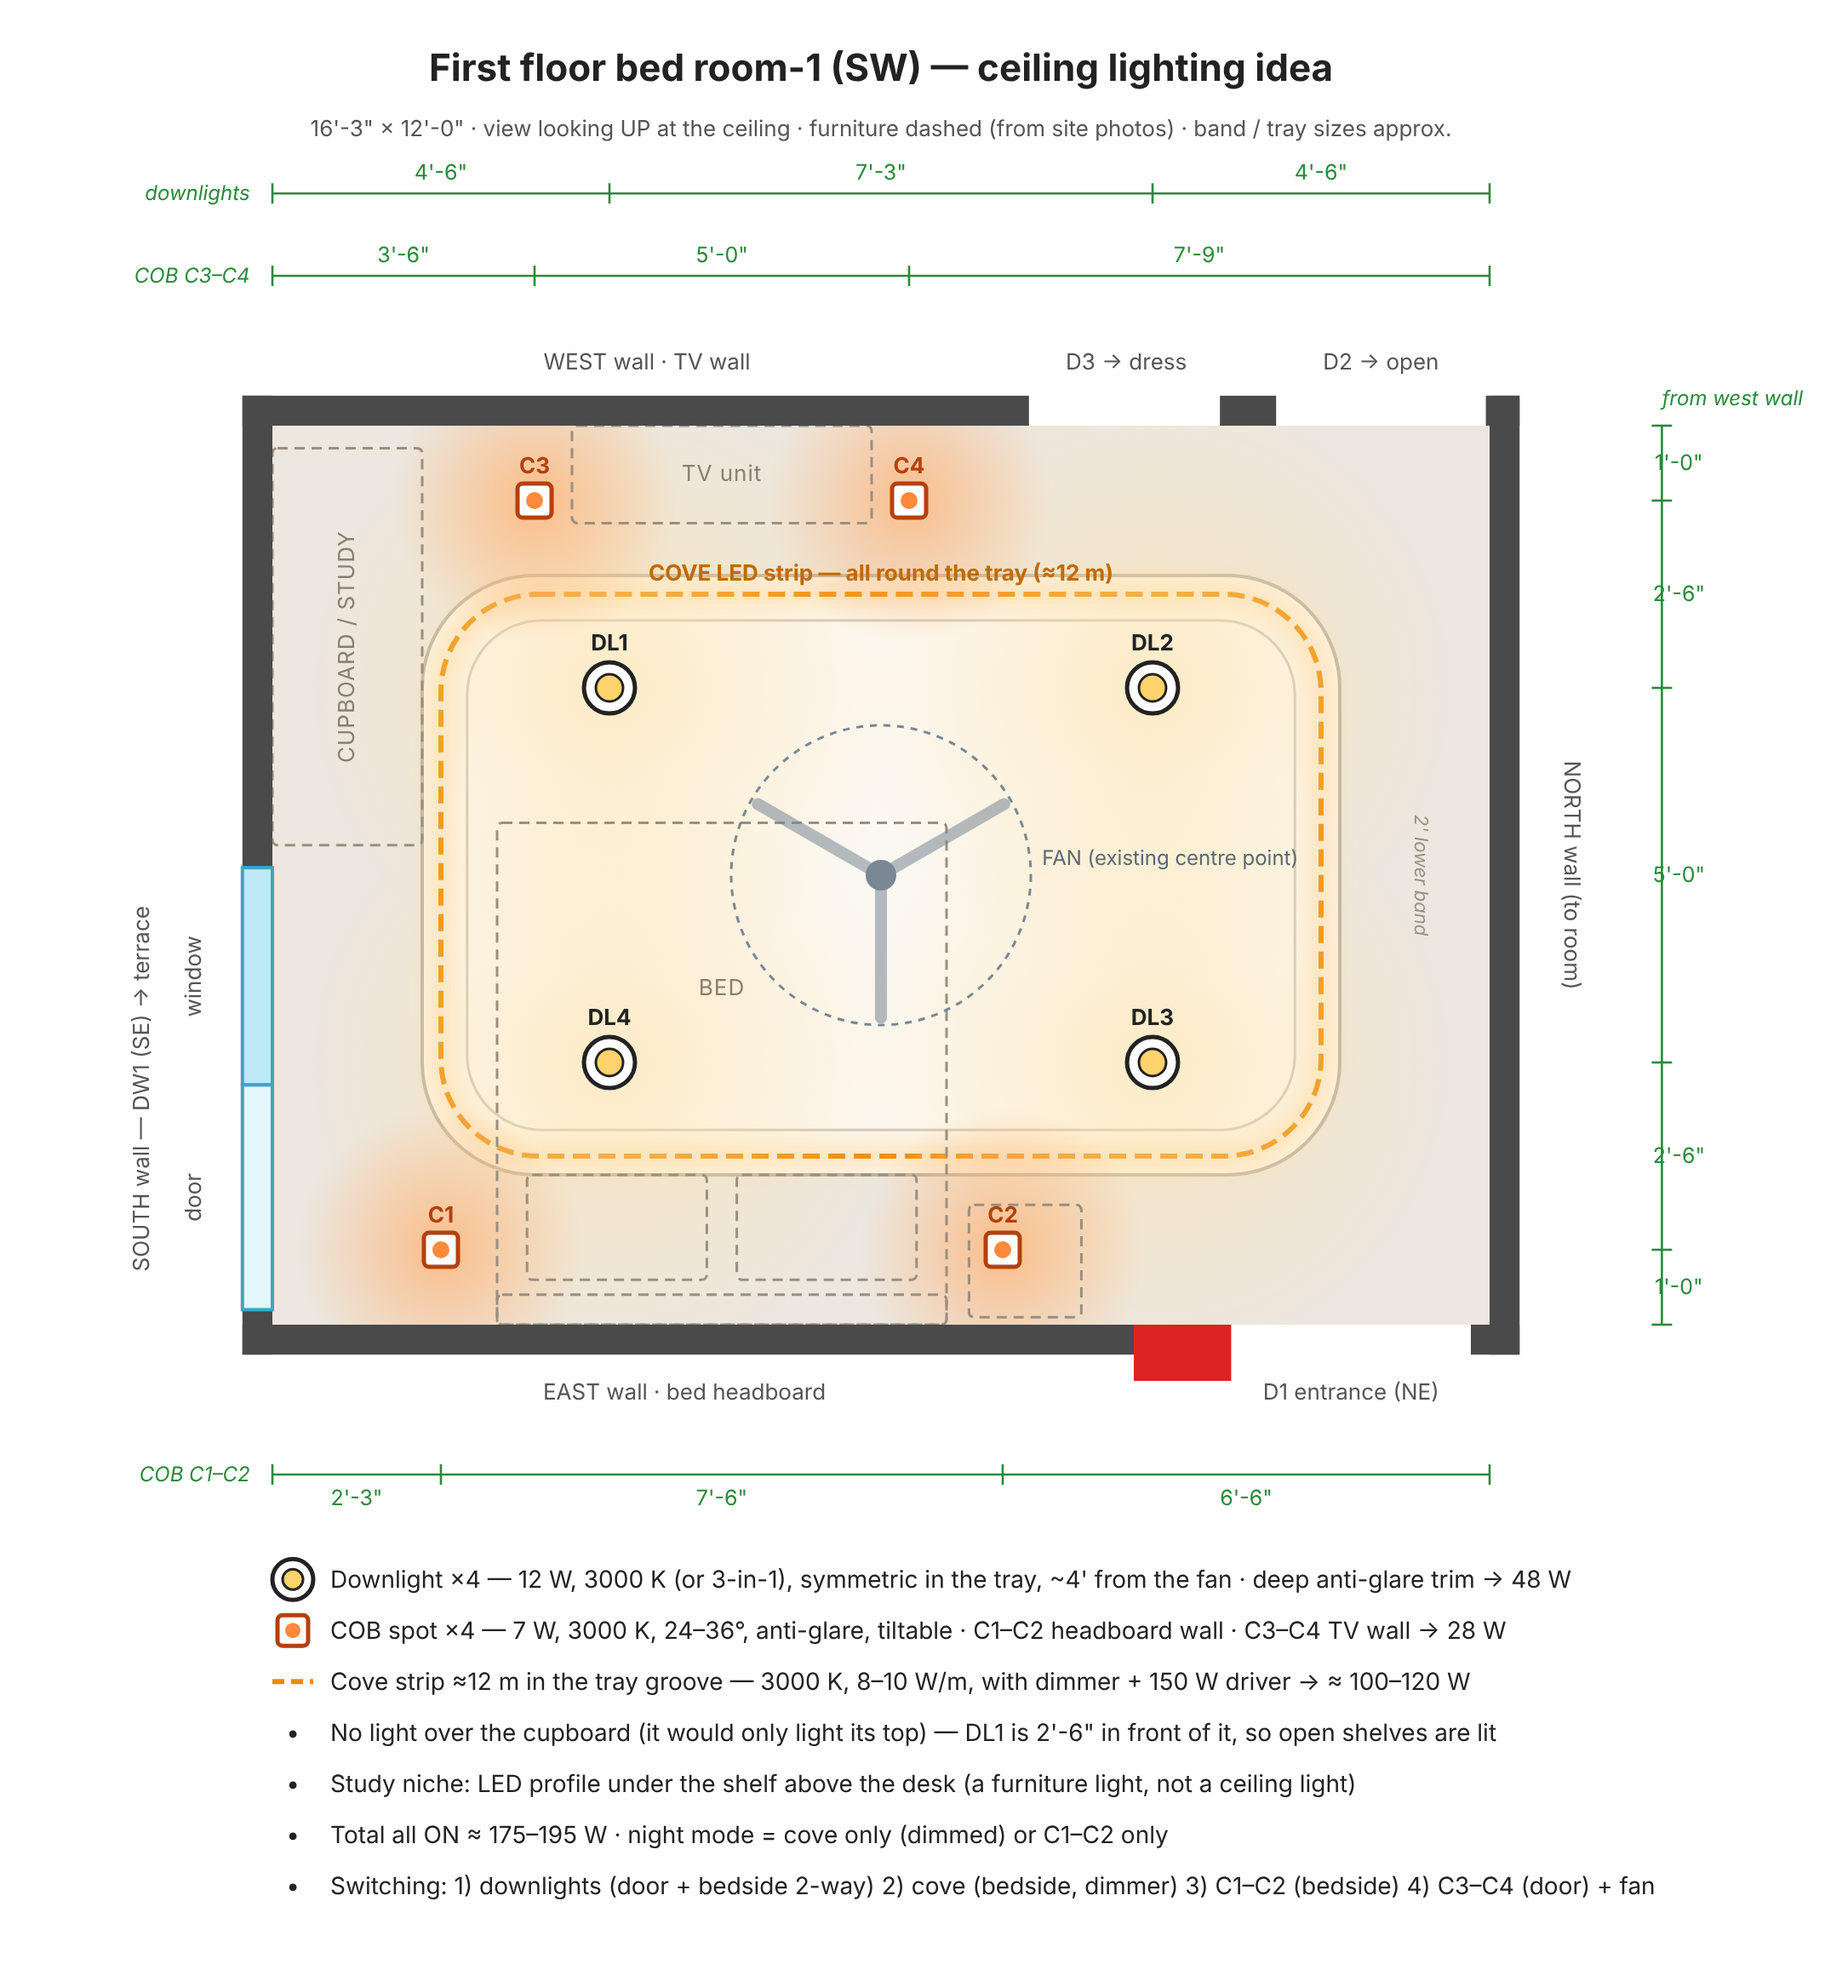
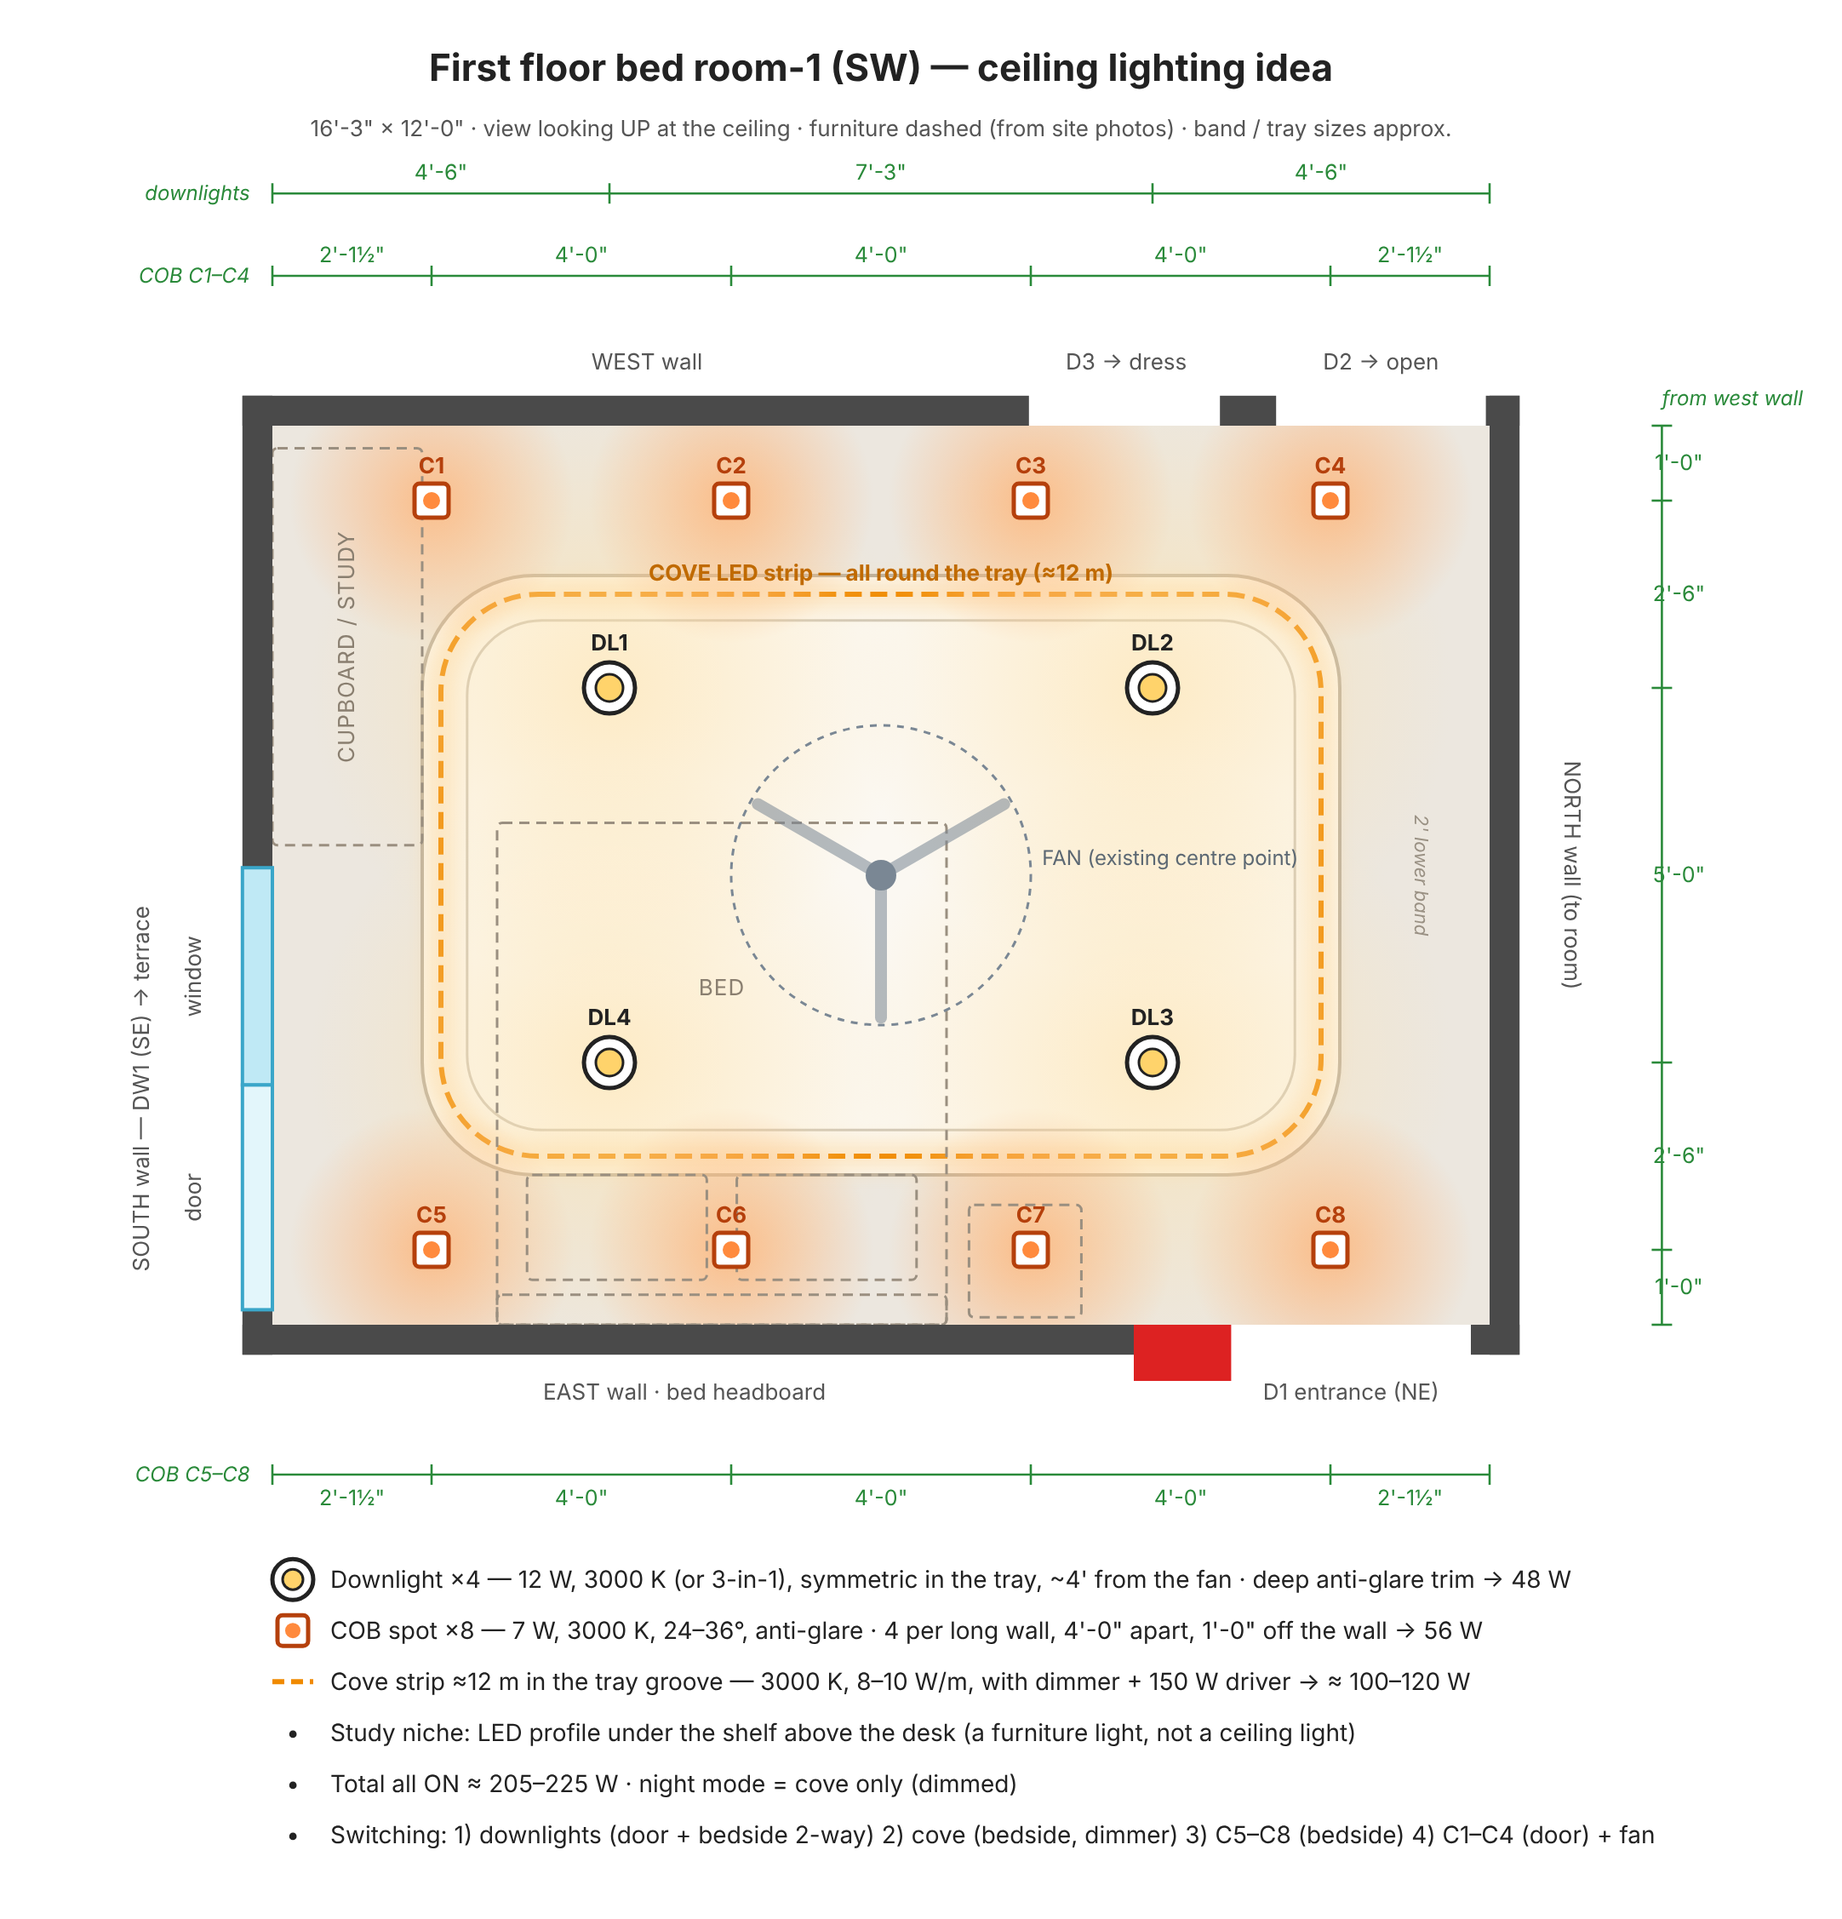
feat(ideas): even, symmetric COB band for first-floor bed room-1
8 COB spots, 4 per long wall at 4'-0" c/c; drop the assumed TV unit.

Claude-Session: https://claude.ai/code/session_01NB31rmuUVJUG6RumaKdizv

diff --git a/ideas/first_bedroom1_ceiling_lights.py b/ideas/first_bedroom1_ceiling_lights.py
@@ -30,9 +30,9 @@ add = parts.append
 
 # 4 downlights, symmetric about the tray/fan centre (8'-1½", 6'-0")
 DL = [("DL1", 4.5, 3.5), ("DL2", 11.75, 3.5), ("DL3", 11.75, 8.5), ("DL4", 4.5, 8.5)]
-COB = [("C1", 2.25, 11.0), ("C2", 9.75, 11.0),      # headboard wall, beside the bed
-       ("C3", 3.5, 1.0), ("C4", 8.5, 1.0)]          # TV wall, either side of the TV
-# Nothing over the cupboard: a spot above a 2'-deep unit only lights its top. DL1 sits 1'-9" in front of it.
+# COB: 4 per long wall, 4'-0" c/c, 1'-0" off the wall, symmetric about the room centre -> even band all round
+COB_X = [L / 2 - 6, L / 2 - 2, L / 2 + 2, L / 2 + 6]
+COB = [(f"C{i+1}", x, 1.0) for i, x in enumerate(COB_X)] + [(f"C{i+5}", x, W - 1.0) for i, x in enumerate(COB_X)]
 
 def rrect(x0, y0, x1, y1, r, **kw):
     a = " ".join(f'{k.replace("_", "-")}="{v}"' for k, v in kw.items())
@@ -72,7 +72,6 @@ furn(3.4, 10.0, 5.8, 11.4); furn(6.2, 10.0, 8.6, 11.4)   # pillows
 add(f'<text x="{X(6.0)}" y="{Y(7.6)}" class="furn">BED</text>')
 furn(9.3, 10.4, 10.8, 11.9)
 furn(0.0, 0.3, 2.0, 5.6, "CUPBOARD / STUDY", 12, rot=True)
-furn(4.0, 0.0, 8.0, 1.3, "TV unit", 12)
 
 # fan
 fx, fy = FAN
@@ -104,7 +103,7 @@ vwall(-T, W + T, L, 1)                                                          
 def lab(x, y, txt, rot=0, cls="door"):
     tr = f' transform="rotate({rot} {X(x)} {Y(y)})"' if rot else ""
     add(f'<text x="{X(x)}" y="{Y(y)}" class="{cls}"{tr}>{txt}</text>')
-lab(5.0, -0.75, "WEST wall · TV wall")
+lab(5.0, -0.75, "WEST wall")
 lab(11.4, -0.75, "D3 → dress")
 lab(14.8, -0.75, "D2 → open")
 lab(5.5, W + 1.0, "EAST wall · bed headboard")
@@ -129,8 +128,10 @@ add(f'<text x="{X(L-1.0)}" y="{Y(6.0)}" class="band" transform="rotate(90 {X(L-1
 
 # ---- dimension chains ----
 def ftin(v):
-    f, i = divmod(round(v * 12), 12)
-    return f"{f}'-{i}\""
+    h = round(v * 24)                      # half inches
+    f, r = divmod(h, 24)
+    i, half = divmod(r, 2)
+    return f"{f}'-{i}{'½' if half else ''}\""
 def dim_h(xs, y, lbl, off=-8):
     yy = Y(y)
     add(f'<line x1="{X(xs[0])}" y1="{yy}" x2="{X(xs[-1])}" y2="{yy}" class="dim"/>')
@@ -148,9 +149,9 @@ def dim_v(ys, x, lbl):
         add(f'<text x="{xx+10}" y="{(Y(a)+Y(b))/2+4}" class="dimt" text-anchor="start">{ftin(b-a)}</text>')
     add(f'<text x="{xx}" y="{Y(ys[0])-12}" class="dimlab">{lbl}</text>')
 
-dim_h([0, 3.5, 8.5, L], -2.0, "COB C3–C4")
+dim_h([0] + COB_X + [L], -2.0, "COB C1–C4")
 dim_h([0, 4.5, 11.75, L], -3.1, "downlights")
-dim_h([0, 2.25, 9.75, L], W + 2.0, "COB C1–C2", 18)
+dim_h([0] + COB_X + [L], W + 2.0, "COB C5–C8", 18)
 dim_v([0, 1.0, 3.5, 8.5, 11.0, W], L + 2.3, "from west wall")
 
 add(f'<text x="{X(L/2)}" y="{Y(-4.6)}" class="title">First floor bed room-1 (SW) — ceiling lighting idea</text>')
@@ -160,12 +161,11 @@ add(f'<text x="{X(L/2)}" y="{Y(-4.0)+6}" class="sub">16\'-3" × 12\'-0" · view 
 lx, ly = X(0), Y(W + 3.4)
 leg = [
     ("dl", "Downlight ×4 — 12 W, 3000 K (or 3-in-1), symmetric in the tray, ~4' from the fan · deep anti-glare trim  →  48 W"),
-    ("cob", "COB spot ×4 — 7 W, 3000 K, 24–36°, anti-glare, tiltable · C1–C2 headboard wall · C3–C4 TV wall  →  28 W"),
+    ("cob", "COB spot ×8 — 7 W, 3000 K, 24–36°, anti-glare · 4 per long wall, 4'-0\" apart, 1'-0\" off the wall  →  56 W"),
     ("cove", "Cove strip ≈12 m in the tray groove — 3000 K, 8–10 W/m, with dimmer + 150 W driver  →  ≈ 100–120 W"),
-    ("txt", "No light over the cupboard (it would only light its top) — DL1 is 2'-6\" in front of it, so open shelves are lit"),
     ("txt", "Study niche: LED profile under the shelf above the desk (a furniture light, not a ceiling light)"),
-    ("txt", "Total all ON ≈ 175–195 W · night mode = cove only (dimmed) or C1–C2 only"),
-    ("txt", "Switching: 1) downlights (door + bedside 2-way)  2) cove (bedside, dimmer)  3) C1–C2 (bedside)  4) C3–C4 (door)  + fan"),
+    ("txt", "Total all ON ≈ 205–225 W · night mode = cove only (dimmed)"),
+    ("txt", "Switching: 1) downlights (door + bedside 2-way)  2) cove (bedside, dimmer)  3) C5–C8 (bedside)  4) C1–C4 (door)  + fan"),
 ]
 for i, (k, t) in enumerate(leg):
     yy = ly + i * 30
